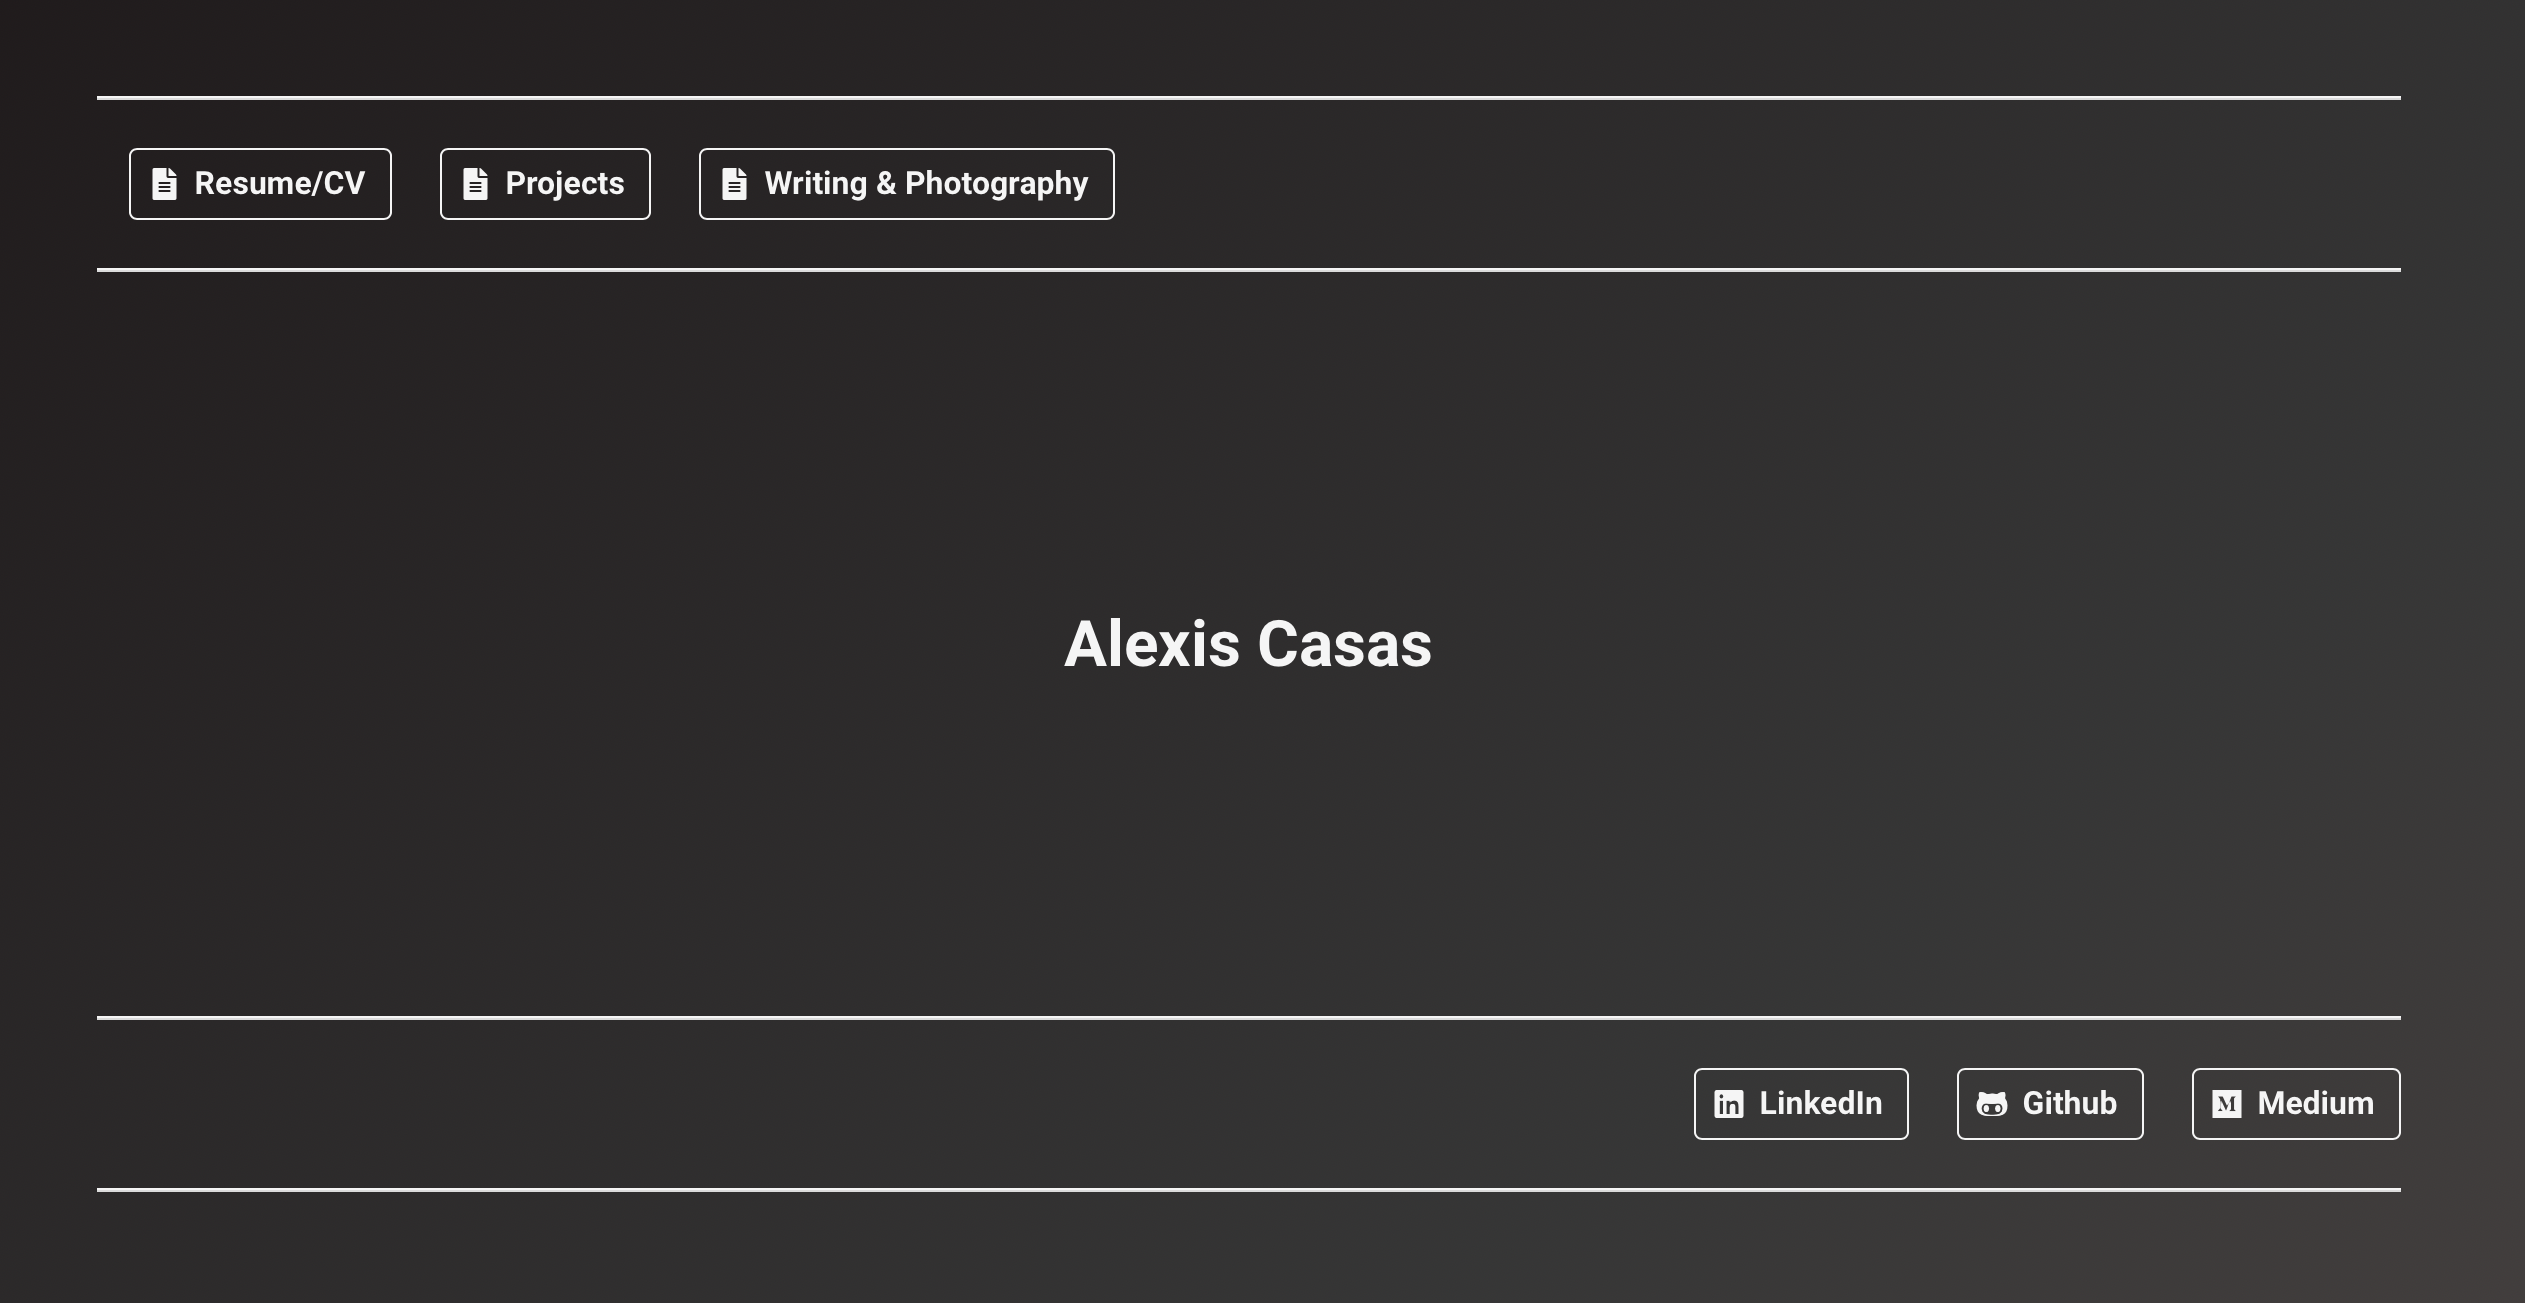
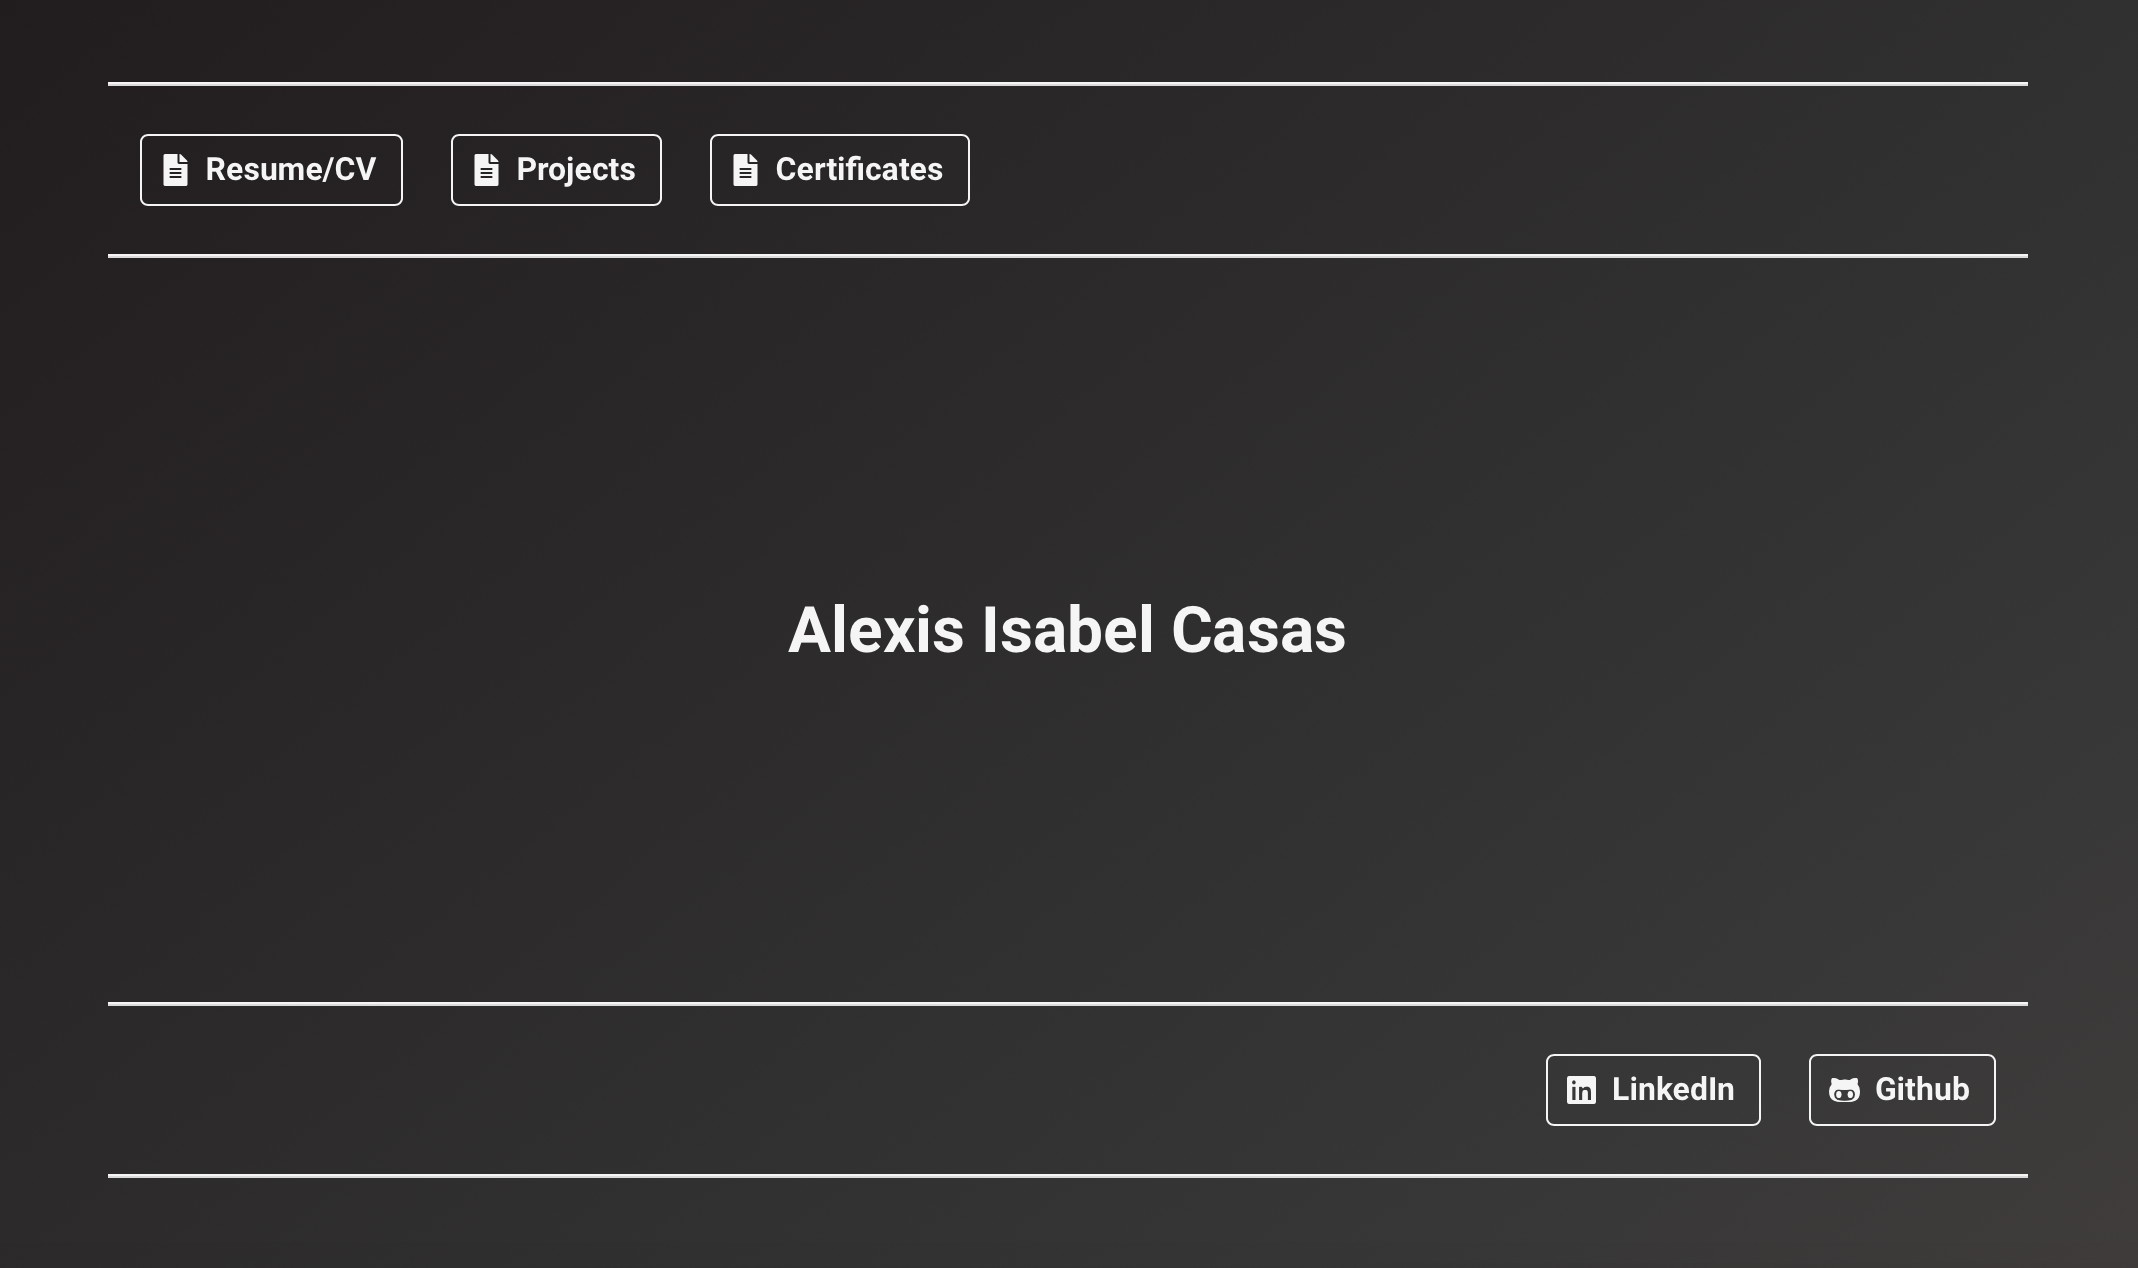
change meta

diff --git a/Projects.html b/Projects.html
@@ -16,7 +16,7 @@
       </script>
 <meta charset="utf-8">
 <meta name="viewport" content="width=device-width, initial-scale=1">
-<title>Alexis Casas</title>
+<title>Alexis Isabel Casas</title>
 <link rel="stylesheet" href="https://cdnjs.cloudflare.com/ajax/libs/bulma/0.7.2/css/bulma.min.css">
 <link rel="stylesheet" href="/css/bulma.min.css">
 <link rel="stylesheet" href="/css/all.min.css">
